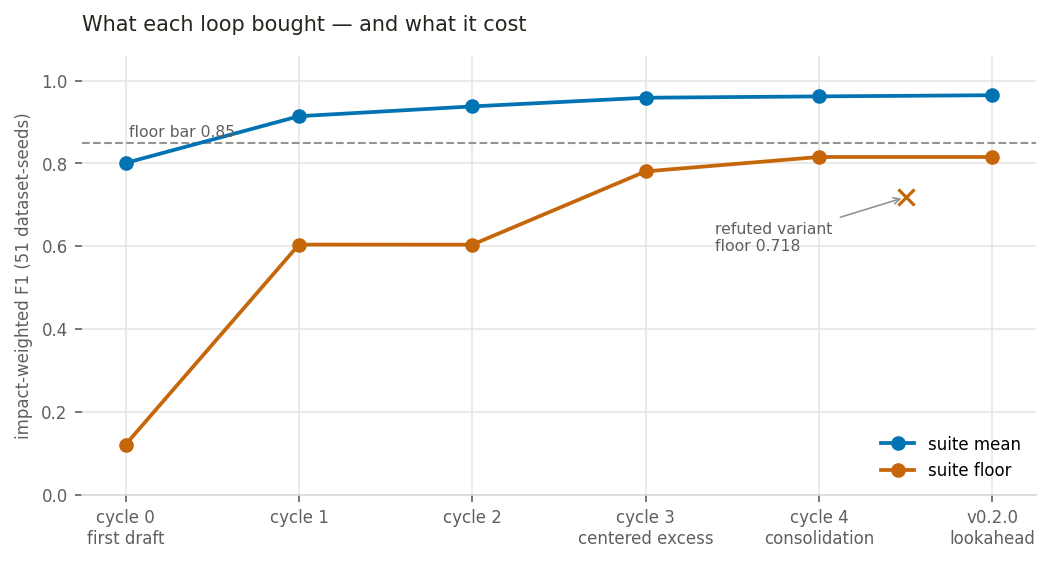
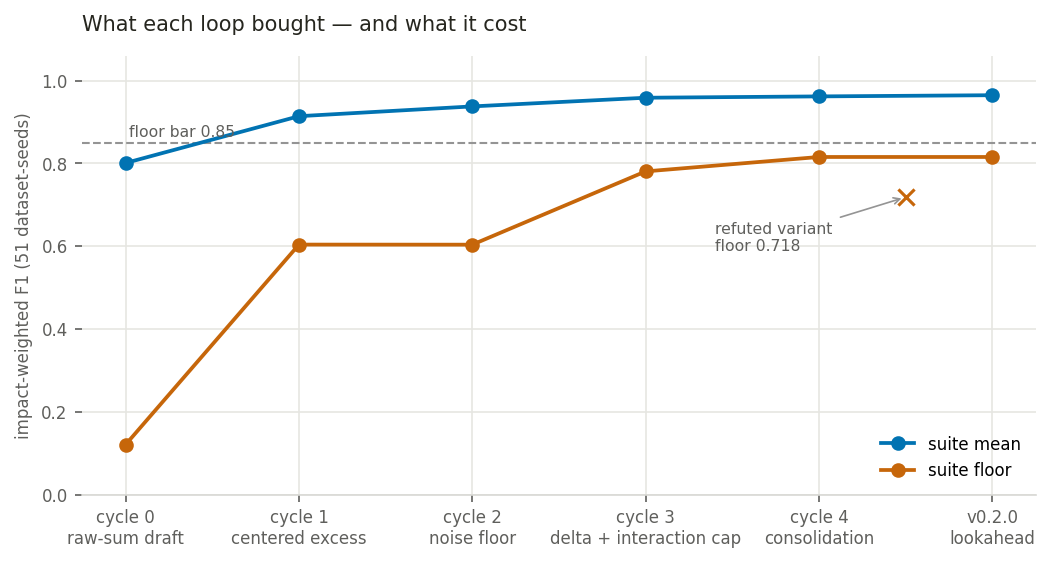
docs: fix final-review findings — story-progression labels and story §2 anchor
Whole-branch review found the progression chart labelled cycle 3 "centered
excess" while the story's own cycle table (and the committed JSON) place
centered excess at cycle 1 and cycle 3 at delta_pct + interaction cap. Relabel
every milestone to match the table: cycle0 raw-sum, cycle1 centered excess,
cycle2 noise floor, cycle3 delta + interaction cap, cycle4 consolidation.
Data points were already correct; only the labels were wrong.

Also fix the one broken in-page anchor the link test cannot catch: story.md's
link to math.md §2 needed the double hyphen the em-dash heading produces under
GitHub's slug rule.

diff --git a/benchmarks/figures.py b/benchmarks/figures.py
@@ -38,10 +38,10 @@ FLOOR_BAR = 0.85
 
 #: Development cycles in order, with the label shown on the progression chart.
 PROGRESSION: list[tuple[str, str]] = [
-    ("cycle0", "cycle 0\nfirst draft"),
-    ("cycle1", "cycle 1"),
-    ("cycle2", "cycle 2"),
-    ("cycle3", "cycle 3\ncentered excess"),
+    ("cycle0", "cycle 0\nraw-sum draft"),
+    ("cycle1", "cycle 1\ncentered excess"),
+    ("cycle2", "cycle 2\nnoise floor"),
+    ("cycle3", "cycle 3\ndelta + interaction cap"),
     ("cycle4", "cycle 4\nconsolidation"),
     ("v020-post3", "v0.2.0\nlookahead"),
 ]

diff --git a/docs/docs/story.md b/docs/docs/story.md
@@ -80,7 +80,7 @@ $\sigma\sqrt{n_{cat}}$, so noise alone cannot clear it and deep nodes stop
 fragmenting once only noise is left. The $\sqrt{n}$ scaling, the robust
 MAD scale, and the reason `max()` is the conjunction of two necessary conditions
 (rather than a sum or a product) are derived in
-[math.md §2](math.md#2-centered-excess-separating-effect-from-volume) and
+[math.md §2](math.md#2-centered-excess--separating-effect-from-volume) and
 [math.md §3](math.md#3-the-two-bar-threshold).
 
 ### Act II — the gain metric
